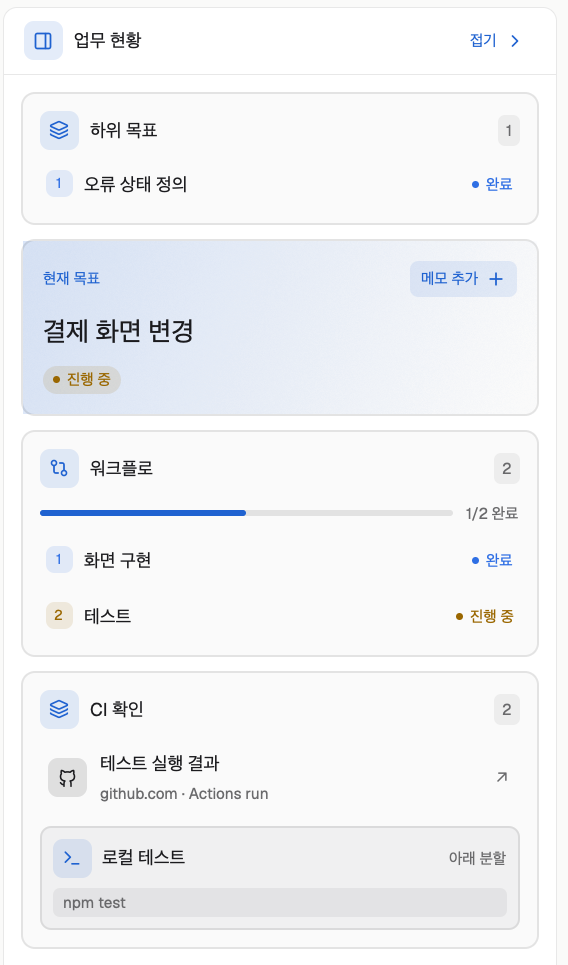
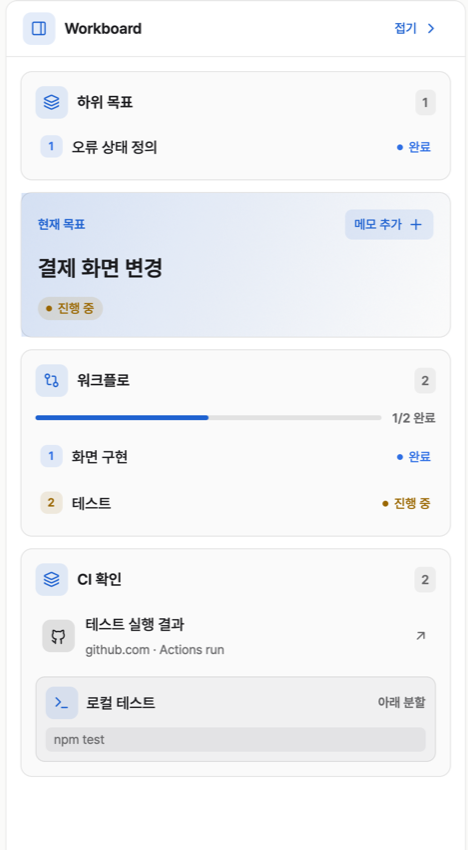
docs: showcase each Herdr mod with a screenshot

diff --git a/README.md b/README.md
@@ -2,13 +2,23 @@
 
 [Herdr](https://herdr.dev) 앱에서 쓰는 레이아웃과 mod 모음. 패키지마다 폴더 하나이고, 그 안은 herdr-app 홈(`~/.config/herdr-app`)과 같은 모양이다.
 
-| 패키지 | 종류 | 무엇 |
-|---|---|---|
-| [agent-dashboard](agent-dashboard/RECIPE.md) | mod | 모든 에이전트를 상태 × 스페이스 매트릭스로. 오른쪽 패널(지금 저장소만)과 하단 상태 줄 요약, 클릭으로 바로 응답 |
-| [kommand](kommand/RECIPE.md) | mod | 탭·에이전트 이동, 앱 명령, mod 기능, 키 동작을 한 목록에서 찾는 명령 팔레트. herdr TUI 플러그인 [herdr-bar](https://github.com/jeffarese/herdr-bar)를 따라 만들었다 |
-| [workboard](workboard/RECIPE.md) | mod + 레이아웃 | 에이전트가 탭별 목표·워크플로·마일스톤·메모·참조를 골라 표시. 접으면 상태 줄에 요약, 커맨드는 클릭해 분할 실행 |
+## Agent Dashboard
 
-![Agent Dashboard](agent-dashboard/preview.png)
+여러 스페이스의 에이전트를 응답 대기·완료·작업 중·유휴 상태별로 확인한다. 카드를 눌러 바로 응답하거나 세션으로 이동할 수 있다. 전체 현황은 탭에서, 현재 저장소 현황은 오른쪽 패널과 상태 줄에서 본다. [설정과 사용법](agent-dashboard/RECIPE.md)
+
+![Agent Dashboard: 스페이스별 에이전트 상태와 응답 대기 카드](agent-dashboard/preview.png)
+
+## Kommand
+
+탭과 에이전트로 이동하거나, Herdr 명령과 mod 기능을 한 팔레트에서 찾아 실행한다. `>`로 시작하면 명령만 검색하며, 등록된 단축키는 검색 결과 옆에 표시된다. [설정과 사용법](kommand/RECIPE.md)
+
+![Kommand: 패널 관련 명령과 단축키 검색 결과](kommand/preview.png)
+
+## Workboard
+
+에이전트가 현재 탭에 발행한 목표, 진행 단계, 메모와 링크를 오른쪽 패널에서 확인한다. 커맨드 카드를 누르면 새 분할 터미널에서 실행되고, 패널을 접으면 하단 상태 줄에 목표와 진행률이 남는다. 동봉 레이아웃을 쓰거나 기존 레이아웃에 두 블록을 추가할 수 있다. [설정과 사용법](workboard/RECIPE.md)
+
+![Workboard: 결제 화면 변경 목표, 진행 단계와 테스트 카드](workboard/preview.png)
 
 ## 설치
 
